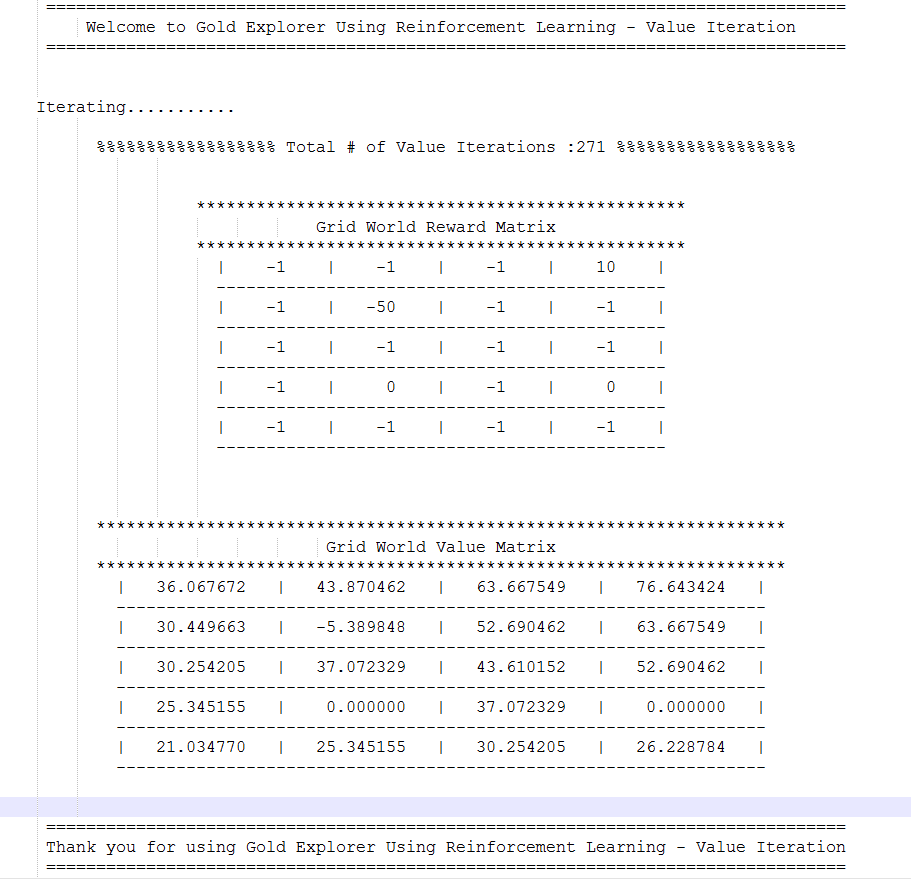
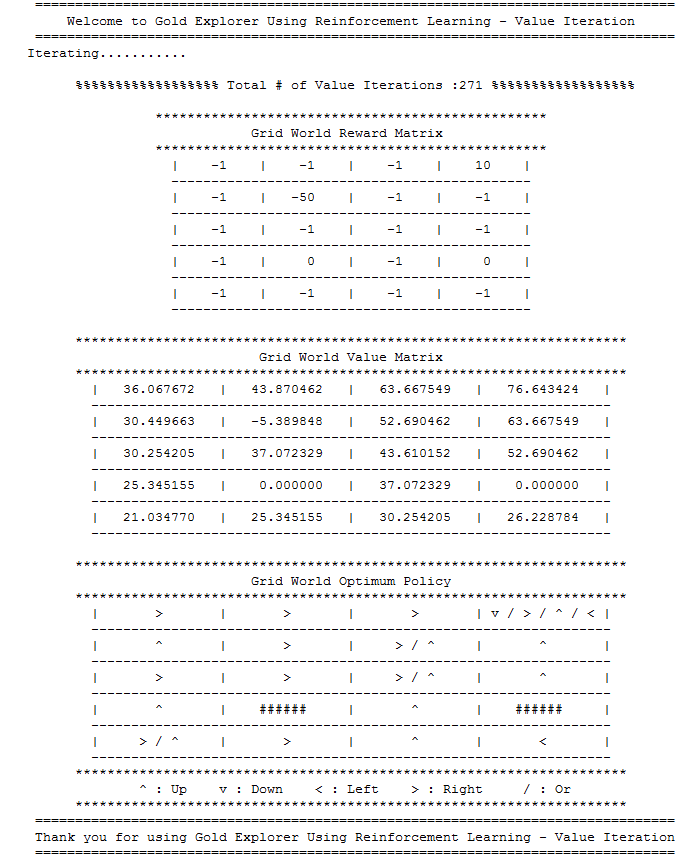
Now printing Optimum Policy for Q Value and Value Iteration

Changed region(s): [[0.0, 0.2109, 1.0, 1.0], [0.0303, 0.0, 0.9408, 0.1808]]

diff --git a/GoldExplorerReinforcementLearning/World/GridWorld.py b/GoldExplorerReinforcementLearning/World/GridWorld.py
@@ -85,47 +85,7 @@ class GridWorld(object):
     
     def getMovement(self):
         return self.movement
-    
-    '''    
-    def getMovesPossible(self, grid):
-        #TODO: Check if this can be deleted
-        if grid.isGoal():
-            return [grid]
-        
-        movesPossible = []
-        # Moves are represented as (From, to)
-        i, j = grid.getIndex()
-        #Up, Down, Right, Left
-        movesPossibleToGrids = [(i+1,j), (i-1,j), (i,j+1), (i,j-1)]
-        for move in movesPossibleToGrids:
-            x, y = move            
-            if x < 5 and x >= 0 and y >=0 and y < 4 :
-                gridToMoveTo = self.grids[x][y]
-                if not gridToMoveTo.isBlocked():
-                    movesPossible.append(gridToMoveTo)
-        return movesPossible
-
-    def getAllMovesFromCurGrid(self,grid):
-        #TODO: Check if this can be deleted
-
-        if grid.isGoal():
-            return [grid]
-        
-        movesPossible = []
-        
-        # Moves are represented as (From, to)
-        i, j = grid.getIndex()
-        #Up, Down, Right, Left
-        movesPossibleToGrids = [(i+1,j), (i-1,j), (i,j+1), (i,j-1)]
-        for move in movesPossibleToGrids:
-            x, y = move            
-            if x < 5 and x >= 0 and y >=0 and y < 4 :
-                gridToMoveTo = self.grids[x][y]
-                if not gridToMoveTo.isBlocked():
-                    movesPossible.append(gridToMoveTo)
-        return movesPossible
-    '''        
-    
+      
     def getAllGridsReachableFromCurGrid(self,grid):
         ''' getAllGridsReachableFromCurGrid '''
 
@@ -156,8 +116,90 @@ class GridWorld(object):
             return 'down'
         else:
             return 'up'
+
+    def getDirectionString(self, dirList):
+        ''' Creates a string of direction of symbols from the given direction list '''
+
+        dirStr = ''        
+        dirDict = {
+        'up': '^',
+        'down': 'v',
+        'left': '<',
+        'right': '>'
+        }
         
+        for dir in dirList:
+            if len(dirStr)>0:
+                dirStr += ' / '
+            dirStr += dirDict[dir]
+            
+        return dirStr
+       
+    def printGridWorldOptimumPolicyValueIteration(self):
+        ''' Print the optimum policy '''
+        print        
+        print '{:^{screenWidth}}'.format('{:*^{w}}'.format('', w = 69), screenWidth=screenWidth)
+        print '{:^{screenWidth}}'.format('{:^{w}}'.format('Grid World Optimum Policy', w = 49), screenWidth=screenWidth)
+        print '{:^{screenWidth}}'.format('{:*^{w}}'.format('', w = 69), screenWidth=screenWidth)    
+                 
+        for i in range(4, -1, -1):                              
+            rowText = '' 
+            for j in range(4):
+                currGrid = self.grids[i][j]
+                if currGrid.isBlocked():
+                    rowText += '|{:^15}'.format('######')
+                else:
+                    allGridsFromCurrGrid = self.getAllGridsReachableFromCurGrid(currGrid)
+                    allGridsFromCurrGrid = [[grid.value, direction] for direction,grid in allGridsFromCurrGrid.iteritems()]
+                    m = max(allGridsFromCurrGrid)
+                    optimumDirections = [elem[1] for idx, elem in enumerate(allGridsFromCurrGrid) if elem[0] == m[0]]
+                    optimumDirStr = self.getDirectionString(optimumDirections)
+                    rowText += '|{:^15}'.format(optimumDirStr)
+                    
+                if j==3:
+                    rowText +=  "|"
+            print '{:^{screenWidth}}'.format('{:^{w}}'.format(rowText, w = 69), screenWidth=screenWidth)
+            print '{:^{screenWidth}}'.format('{:-^{w}}'.format('', w = 65), screenWidth=screenWidth)
+
+        print '{:^{screenWidth}}'.format('{:*^{w}}'.format('', w = 69), screenWidth=screenWidth)
+        print '{:^{screenWidth}}'.format('{:^{w}}'.format('^ : Up    v : Down    < : Left    > : Right     / : Or', w = 49), screenWidth=screenWidth)
+        print '{:^{screenWidth}}'.format('{:*^{w}}'.format('', w = 69), screenWidth=screenWidth)    
+        print "\n"
+
+       
+    def printGridWorldOptimumPolicyQValue(self):
+        ''' Print the optimum policy '''
+        print        
+        print '{:^{screenWidth}}'.format('{:*^{w}}'.format('', w = 69), screenWidth=screenWidth)
+        print '{:^{screenWidth}}'.format('{:^{w}}'.format('Grid World Optimum Policy', w = 49), screenWidth=screenWidth)
+        print '{:^{screenWidth}}'.format('{:*^{w}}'.format('', w = 69), screenWidth=screenWidth)    
+        for i in range(4, -1, -1):                      
+            rowText = '' 
+            for j in range(4):
+                currGrid = self.grids[i][j]
+                if currGrid.isBlocked():
+                    rowText += '|{:^15}'.format('######')
+                else:                    
+                    allQValuesCurrGrid = currGrid.getAllQValues()
+                    allQValuesCurrGrid = [[v,k] for k,v in allQValuesCurrGrid.iteritems()]
+                    m = max(allQValuesCurrGrid)
+                    optimumDirections = [elem[1] for _, elem in enumerate(allQValuesCurrGrid) if abs(elem[0] - m[0]) <= 0.05]
+                    optimumDirStr = self.getDirectionString(optimumDirections)
+                    
+                    rowText += '|{:^15}'.format(optimumDirStr)
                 
+                if j==3:
+                    rowText +=  "|"
+            
+            print '{:^{screenWidth}}'.format('{:^{w}}'.format(rowText, w = 69), screenWidth=screenWidth)
+            print '{:^{screenWidth}}'.format('{:-^{w}}'.format('', w = 65), screenWidth=screenWidth)
+            
+        print '{:^{screenWidth}}'.format('{:*^{w}}'.format('', w = 69), screenWidth=screenWidth)
+        print '{:^{screenWidth}}'.format('{:^{w}}'.format('^ : Up  v : Down  < : Left   > : Right   Diff. Threshold : (0.05)', w = 49), screenWidth=screenWidth)
+        print '{:^{screenWidth}}'.format('{:*^{w}}'.format('', w = 69), screenWidth=screenWidth)    
+        print "\n"
+
+                        
     def printGridWorldValueMatrix(self):
         ''' Print Grid World Value Matrix'''
         
@@ -239,6 +281,8 @@ if __name__ == '__main__':
 #                 
     gWorld.getAllGridsReachableFromCurGrid(grid17)
     gWorld.printGridWorldValueMatrix()
+#     gWorld.printGridWorldOptimumPolicyValueIteration()
+    gWorld.printGridWorldOptimumPolicyQValue()
 #     gWorld.printGridWorldRewardMatrix()
 # 
 #     print "getUpGrid", gWorld.getUpGrid(grid17).getGridName()

diff --git a/GoldExplorerReinforcementLearning/Strategy/QLearning.py b/GoldExplorerReinforcementLearning/Strategy/QLearning.py
@@ -181,8 +181,8 @@ def qLearn():
         convergedFlag = isConverged(oldGridMatrixValue,newGridMatrixValue)
                   
         if convergedFlag == True:
-            print '\n\n{:^{screenWidth}}'.format('{:%^{w}}'.format(" Total # of iterations\t:" + str(iterationCount)+" ", w = screenWidth-20), screenWidth=screenWidth)
-            print '\n{:^{screenWidth}}\n'.format('{:%^{w}}'.format(" Total # of episodeCount\t:" + str(episodeCount)+" ", w = screenWidth-20), screenWidth=screenWidth)            
+            print '\n\n{:^{screenWidth}}'.format('{:%^{w}}'.format(" Total # of Iterations\t:" + str(iterationCount)+" ", w = screenWidth-20), screenWidth=screenWidth)
+            print '\n{:^{screenWidth}}\n'.format('{:%^{w}}'.format(" Total # of Episodes\t:" + str(episodeCount)+" ", w = screenWidth-20), screenWidth=screenWidth)            
             break
                         
 def qLearnMain(gWorldArg, gammaArg, alphaArg, epsilonArg, printDebugStatementsFlagArg, screenWidthArg):
@@ -206,12 +206,13 @@ def qLearnMain(gWorldArg, gammaArg, alphaArg, epsilonArg, printDebugStatementsFl
     qLearn()
     gWorld.printGridWorldRewardMatrix() 
     printGrids(gWorld)
+    gWorld.printGridWorldOptimumPolicyQValue()
 
     print '{:^{screenWidth}}'.format('{:=^{w}}'.format('', w = screenWidth-10), screenWidth=screenWidth)
     print '{:^{screenWidth}}'.format('{:^{w}}'.format('Thank you for using Gold Explorer Using Reinforcement Learning - Q Learning', w = screenWidth-10), screenWidth=screenWidth)
     print '{:^{screenWidth}}'.format('{:=^{w}}'.format('', w = screenWidth-10), screenWidth=screenWidth)    
     print 
-    
+
 if __name__ == '__main__':
     # Creating a sample world
     grid1 = Grid(1, -1)
@@ -240,7 +241,7 @@ if __name__ == '__main__':
     gWorld = GridWorld([[grid1,grid2,grid3,grid4],[grid5,grid6,grid7,grid8],[grid9,grid10,grid11,grid12],[grid13,grid14,grid15,grid16],[grid17,grid18,grid19,grid20]])
     gWorld.setMovement({"left":{"left":1}, "right":{"right":0.8, "down":0.2}, "up":{"up":0.8, "left":0.2}, "down":{"down":1}})
 
-    printDebugStatementsFlag = False
+    printDebugStatementsFlag = True
     screenWidthArg = 90
     
     # Q Learning Parameters

diff --git a/GoldExplorerReinforcementLearning/Strategy/ValueIteration.py b/GoldExplorerReinforcementLearning/Strategy/ValueIteration.py
@@ -125,12 +125,14 @@ def valueIterationMain(gWorldArg, gammaArg, printDebugStatementsFlagArg, screenW
 
     gWorld.printGridWorldRewardMatrix()           
     gWorld.printGridWorldValueMatrix()
+    gWorld.printGridWorldOptimumPolicyValueIteration()
  
     print '{:^{screenWidth}}'.format('{:=^{w}}'.format('', w = screenWidth-10), screenWidth=screenWidth)
     print '{:^{screenWidth}}'.format('{:^{w}}'.format('Thank you for using Gold Explorer Using Reinforcement Learning - Value Iteration', w = screenWidth-10), screenWidth=screenWidth)
     print '{:^{screenWidth}}'.format('{:=^{w}}'.format('', w = screenWidth-10), screenWidth=screenWidth)    
     print 
     
+
 if __name__ == '__main__':
 
      # Creating a sample world
@@ -159,4 +161,6 @@ if __name__ == '__main__':
     gWorld = GridWorld([[grid1,grid2,grid3,grid4],[grid5,grid6,grid7,grid8],[grid9,grid10,grid11,grid12],[grid13,grid14,grid15,grid16],[grid17,grid18,grid19,grid20]])
     gWorld.setMovement({"left":{"left":1}, "right":{"right":0.8, "down":0.2}, "up":{"up":0.8, "left":0.2}, "down":{"down":1}})
         
-    valueIterationMain(gWorld, 0.9, True, 90)
+    printDebugStatementsFlag = True
+    screenWidthArg = 90
+    valueIterationMain(gWorld, 0.9, printDebugStatementsFlag, screenWidthArg)
